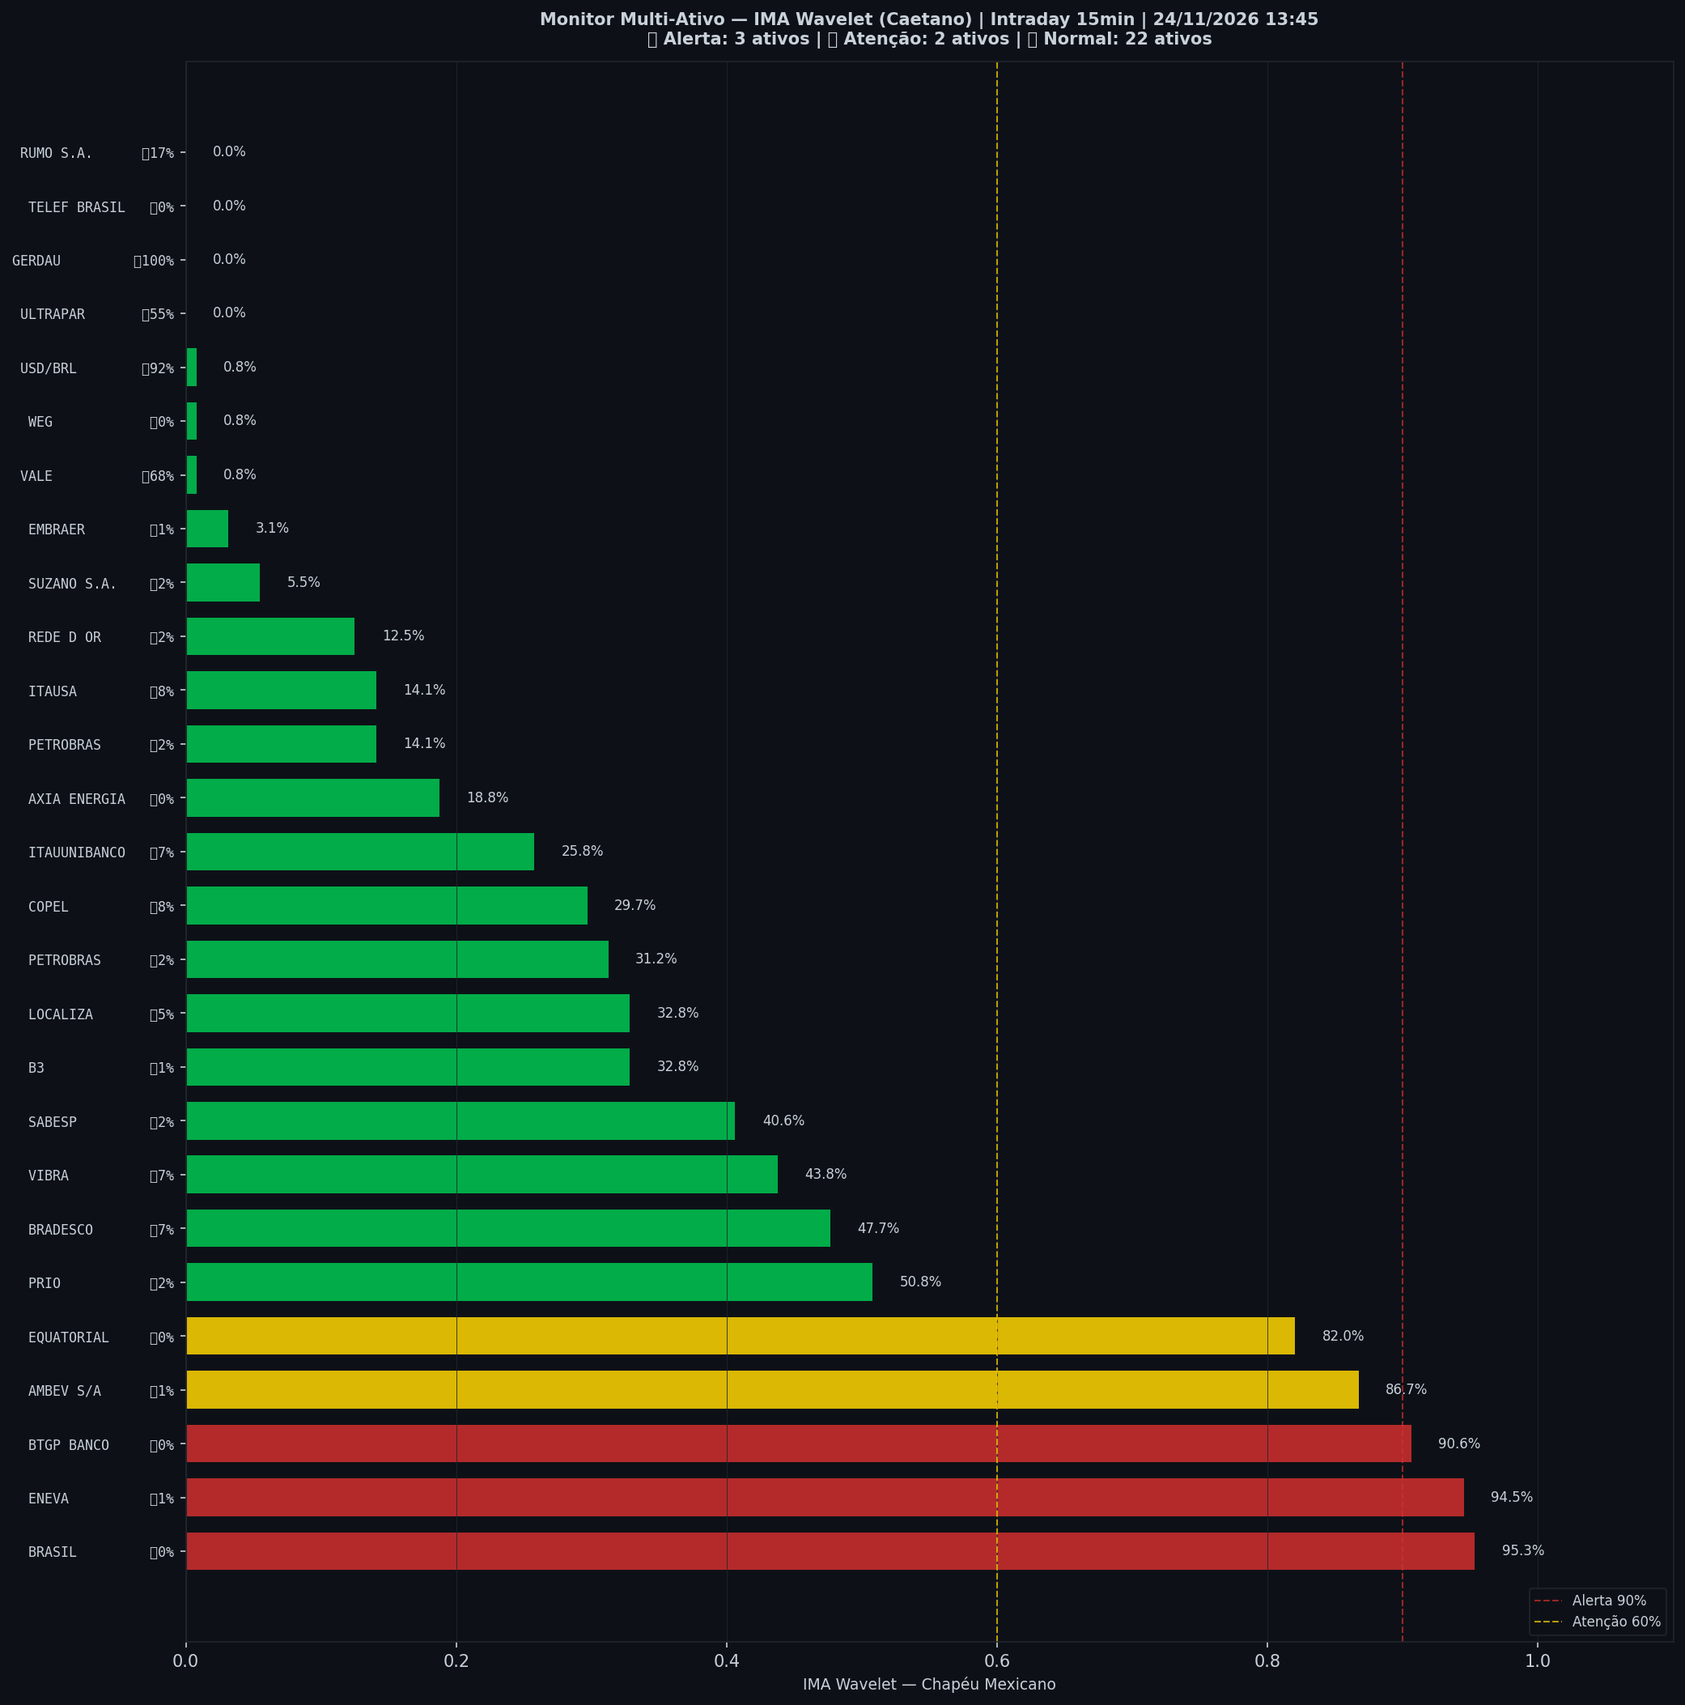
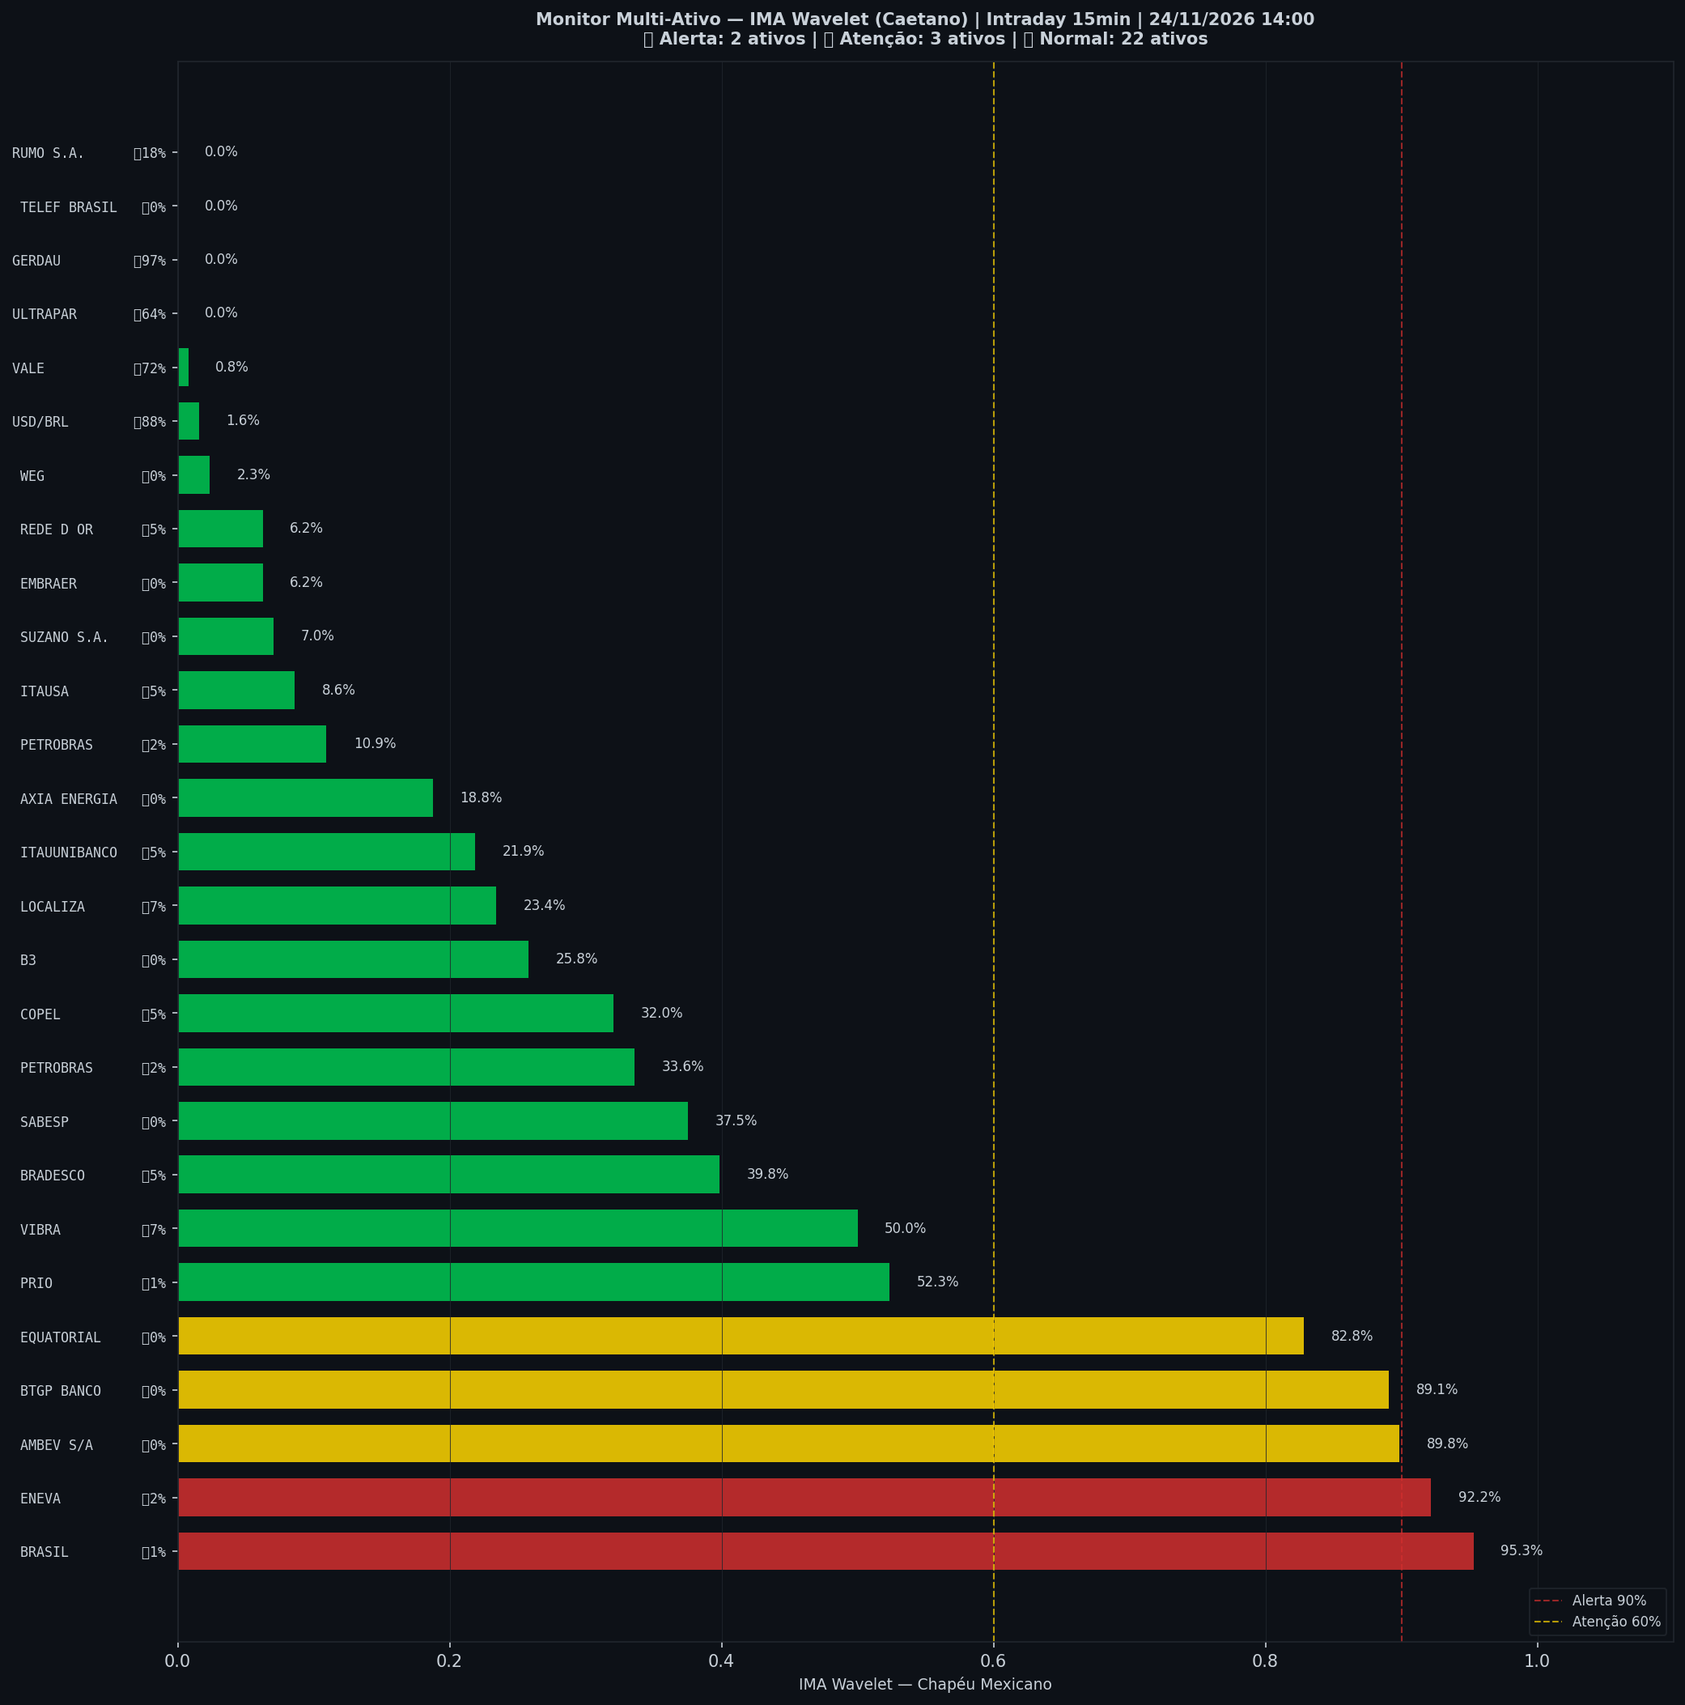
🤖 Auto: Sinal 24/11/2026 14:00

diff --git a/content/intraday/2026-11-24.md b/content/intraday/2026-11-24.md
@@ -1,13 +1,13 @@
 ---
-title: "🟢 Intraday 24/11/2026 13:30 BRT — VERDE"
+title: "🟢 Intraday 24/11/2026 13:45 BRT — VERDE"
 date: 2026-11-24
 tags: [intraday]
 ---
 
-> [!success] Onde o mercado está agora (24/11 13:30, candles de 15 min): **🟢 Calmo**
+> [!success] Onde o mercado está agora (24/11 13:45, candles de 15 min): **🟢 Calmo**
 > `Pânico ◀───────────●─────────▶ Euforia`
 >
-> **O Ibovespa cai 0,68% agora, aos 165.251 pontos.** O preço está dentro da sua faixa normal, sem excesso para cima nem para baixo.
+> **O Ibovespa cai 0,63% agora, aos 165.324 pontos.** O preço está dentro da sua faixa normal, sem excesso para cima nem para baixo.
 > No gráfico diário: 🌱 Fundo se desfazendo.
 >
 > *Leitura educacional baseada em 26 anos de dados. Não é recomendação de investimento.*
@@ -20,8 +20,8 @@ tags: [intraday]
 > | 📍 **Sinais** | hoje: nenhum sinal | [abrir](sinais-topo-fundo/) |
 > | 🧪 **Placar ao vivo** | 1 operação(ões), 0 com lucro, soma -0,8% | [abrir](operacoes/) |
 
-> [!success] IMA Intraday · 15 min (24/11 13:30): 🟢 **VERDE** — Risco 21% · ▼ -8 p.p. vs leitura anterior
-> `████░░░░░░░░░░░░░░░░`
+> [!success] IMA Intraday · 15 min (24/11 13:45): 🟢 **VERDE** — Risco 14% · ▼ -7 p.p. vs leitura anterior
+> `███░░░░░░░░░░░░░░░░░`
 > Preço na faixa normal em torno da tendência.
 
 
@@ -32,13 +32,13 @@ tags: [intraday]
 >
 > *Leitura educacional baseada em 26 anos de dados, não recomendação. [Como usar](../metodologia/crise#3-como-usar-na-prática).*
 
-| Indicador — IMA Intraday · 15 min (24/11 13:30) | Valor |
+| Indicador — IMA Intraday · 15 min (24/11 13:45) | Valor |
 |---|---|
-| 🔴 ζ Topo — preço esticado acima da tendência | **21%** |
-| 🔵 ζ Fundo — preço esticado abaixo da tendência | 7% |
+| 🔴 ζ Topo — preço esticado acima da tendência | **14%** |
+| 🔵 ζ Fundo — preço esticado abaixo da tendência | 5% |
 | 🫧 LPPL bolha — alta super-exponencial (risco de crash) | 0% |
 | 🫧 LPPL antibolha — queda super-exponencial (risco de repique) | 0% |
-| 📊 Ibovespa | 165.251 pts |
+| 📊 Ibovespa | 165.324 pts |
 
 ![Gráfico do sinal](../graficos/sinal_intraday.png)
 
@@ -46,6 +46,7 @@ tags: [intraday]
 
 | Data | Zona | Evento | Risco | ζ Topo | ζ Fundo | LPPL |
 |---|---|---|---|---|---|---|
+| 2026-11-24 13:45 | 🟢 VERDE |  | **14%** | 14% | 5% | 0% |
 | 2026-11-24 13:30 | 🟢 VERDE |  | **21%** | 21% | 7% | 0% |
 | 2026-11-24 13:15 | 🟢 VERDE |  | **29%** | 29% | 6% | 0% |
 | 2026-11-24 13:00 | 🟢 VERDE |  | **41%** | 41% | 6% | 0% |
@@ -75,52 +76,51 @@ tags: [intraday]
 | 2026-11-23 15:15 | 🟢 VERDE |  | **1%** | 1% | 12% | 0% |
 | 2026-11-23 15:00 | 🟢 VERDE |  | **0%** | 0% | 22% | 0% |
 | 2026-11-23 14:45 | 🟢 VERDE |  | **1%** | 1% | 27% | 0% |
-| 2026-11-23 14:30 | 🟢 VERDE |  | **1%** | 1% | 27% | 0% |
 
 <small>Destaques: 🟡 ≥ 60% · 🔴 ≥ 90% (Risco e ζ Topo) · 🔵 ≥ 60% · 🔪 ≥ 90% (ζ Fundo) · 🫧 ≥ 30% · 🫧🔴 ≥ 50% (LPPL)</small>
 
 ## Monitor Multi-Ativo
 
-**19% dos ativos em tensão** (4🔴 2🟡) · **3 com ζ Fundo alto** — quanto mais ativos disparam juntos, mais confiável o sinal.
+**19% dos ativos em tensão** (4🔴 1🟡) · **4 com ζ Fundo alto** — quanto mais ativos disparam juntos, mais confiável o sinal.
 
 > [!danger] Em destaque no multi-ativo
-> 🔪 **GERDAU** ζ Fundo 100% · 🔴 **BRASIL** ζ Topo 95% · 🔴 **ENEVA** ζ Topo 95% · 🔪 **USD/BRL** ζ Fundo 92% · 🔴 **BTGP BANCO** ζ Topo 91% · 🟡 **AMBEV S/A** ζ Topo 87% · 🟡 **EQUATORIAL** ζ Topo 82% · 🔵 **VALE** ζ Fundo 68%
+> 🔪 **GERDAU** ζ Fundo 97% · 🔴 **BRASIL** ζ Topo 95% · 🔴 **ENEVA** ζ Topo 92% · 🟡 **AMBEV S/A** ζ Topo 90% · 🟡 **BTGP BANCO** ζ Topo 89% · 🔵 **USD/BRL** ζ Fundo 88% · 🟡 **EQUATORIAL** ζ Topo 83% · 🔵 **VALE** ζ Fundo 72% · 🔵 **ULTRAPAR** ζ Fundo 64%
 
 | Zona | Ativo | Setor | ζ Topo | ζ Fundo |
 |---|---|---|---|---|
-| 🟢 | **GERDAU** | Siderurgia | 0.0% | 🔪 **100.0%** |
-| 🔴 | **BRASIL** | Financeiro | 🔴 **95.3%** | 0.0% |
-| 🔴 | **ENEVA** | Energia | 🔴 **94.5%** | 0.8% |
-| 🟢 | **USD/BRL** | Câmbio | 0.8% | 🔪 **92.2%** |
-| 🔴 | **BTGP BANCO** | Financeiro | 🔴 **90.6%** | 0.0% |
-| 🔴 | **AMBEV S/A** | Consumo | 🟡 **86.7%** | 0.8% |
-| 🟡 | **EQUATORIAL** | Energia | 🟡 **82.0%** | 0.0% |
-| 🟢 | **VALE** | Mineração | 0.8% | 🔵 **68.0%** |
-| 🟢 | **ULTRAPAR** | Outros | 0.0% | 54.7% |
-| 🟢 | **PRIO** | Petróleo | 50.8% | 1.6% |
-| 🟡 | **BRADESCO** | Financeiro | 47.7% | 7.0% |
-| 🟢 | **VIBRA** | Energia | 43.8% | 7.0% |
-| 🟢 | **SABESP** | Saneamento | 40.6% | 1.6% |
-| 🟢 | **B3** | Financeiro | 32.8% | 0.8% |
-| 🟢 | **LOCALIZA** | Aluguel | 32.8% | 5.5% |
-| 🟢 | **PETROBRAS** | Petróleo | 31.2% | 1.6% |
-| 🟢 | **COPEL** | Energia | 29.7% | 7.8% |
-| 🟢 | **ITAUUNIBANCO** | Financeiro | 25.8% | 7.0% |
+| 🟢 | **GERDAU** | Siderurgia | 0.0% | 🔪 **96.9%** |
+| 🔴 | **BRASIL** | Financeiro | 🔴 **95.3%** | 0.8% |
+| 🔴 | **ENEVA** | Energia | 🔴 **92.2%** | 1.6% |
+| 🔴 | **AMBEV S/A** | Consumo | 🟡 **89.8%** | 0.0% |
+| 🔴 | **BTGP BANCO** | Financeiro | 🟡 **89.1%** | 0.0% |
+| 🟢 | **USD/BRL** | Câmbio | 1.6% | 🔵 **87.5%** |
+| 🟡 | **EQUATORIAL** | Energia | 🟡 **82.8%** | 0.0% |
+| 🟢 | **VALE** | Mineração | 0.8% | 🔵 **71.9%** |
+| 🟢 | **ULTRAPAR** | Outros | 0.0% | 🔵 **64.1%** |
+| 🟢 | **PRIO** | Petróleo | 52.3% | 0.8% |
+| 🟢 | **VIBRA** | Energia | 50.0% | 7.0% |
+| 🟢 | **BRADESCO** | Financeiro | 39.8% | 5.5% |
+| 🟢 | **SABESP** | Saneamento | 37.5% | 0.0% |
+| 🟢 | **PETROBRAS** | Petróleo | 33.6% | 1.6% |
+| 🟢 | **COPEL** | Energia | 32.0% | 5.5% |
+| 🟢 | **B3** | Financeiro | 25.8% | 0.0% |
+| 🟢 | **LOCALIZA** | Aluguel | 23.4% | 7.0% |
+| 🟢 | **ITAUUNIBANCO** | Financeiro | 21.9% | 4.7% |
 | 🟢 | **AXIA ENERGIA** | Energia | 18.8% | 0.0% |
-| 🟢 | **RUMO S.A.** | Outros | 0.0% | 17.2% |
-| 🟢 | **PETROBRAS** | Petróleo | 14.1% | 2.3% |
-| 🟢 | **ITAUSA** | Financeiro | 14.1% | 7.8% |
-| 🟢 | **REDE D OR** | Saúde | 12.5% | 2.3% |
-| 🟢 | **SUZANO S.A.** | Papel/Celulose | 5.5% | 1.6% |
-| 🟢 | **EMBRAER** | Outros | 3.1% | 0.8% |
-| 🟢 | **WEG** | Industrial | 0.8% | 0.0% |
+| 🟢 | **RUMO S.A.** | Outros | 0.0% | 18.0% |
+| 🟢 | **PETROBRAS** | Petróleo | 10.9% | 1.6% |
+| 🟢 | **ITAUSA** | Financeiro | 8.6% | 5.5% |
+| 🟢 | **SUZANO S.A.** | Papel/Celulose | 7.0% | 0.0% |
+| 🟢 | **EMBRAER** | Outros | 6.2% | 0.0% |
+| 🟢 | **REDE D OR** | Saúde | 6.2% | 4.7% |
+| 🟢 | **WEG** | Industrial | 2.3% | 0.0% |
 | 🟢 | **TELEF BRASIL** | Outros | 0.0% | 0.0% |
 
 <small>Destaques: 🟡 ≥ 60% · 🔴 ≥ 90% (Risco e ζ Topo) · 🔵 ≥ 60% · 🔪 ≥ 90% (ζ Fundo) · 🫧 ≥ 30% · 🫧🔴 ≥ 50% (LPPL)</small>
 
 ![Monitor multi-ativo](../graficos/multi_intraday.png)
 
-*Página atualizada em 24/11/2026 13:45 BRT (leitura da barra de 2026-11-24 13:30 BRT).*
+*Página atualizada em 24/11/2026 14:00 BRT (leitura da barra de 2026-11-24 13:45 BRT).*
 
 > [!warning] O que este indicador não faz
 > Medido em 5 anos de Ibovespa, o ζ **não antecipa** topos nem fundos: a capacidade de separar o que sobe do que cai ficou em 0,49–0,52, e 0,50 é moeda jogada ao ar. Ele descreve o estado de agora; não é aviso do que vem. As zonas verde/amarelo/vermelho continuam na página como descrição desse estado — **não as use como sinal de entrada ou saída**.

diff --git a/content/index.md b/content/index.md
@@ -7,12 +7,12 @@ tags: [home]
 
 **As ondas do mercado, explicadas.** Leitura do Ibovespa com estatística de 26 anos, baseada no trabalho de pesquisadores e traders reconhecidos e adaptada por Jarbas Daniel da Costa.
 
-*Última atualização: 24/11/2026 13:45 BRT · Intraday 15min*
+*Última atualização: 24/11/2026 14:00 BRT · Intraday 15min*
 
-> [!success] Onde o mercado está agora (24/11 13:30, candles de 15 min): **🟢 Calmo**
+> [!success] Onde o mercado está agora (24/11 13:45, candles de 15 min): **🟢 Calmo**
 > `Pânico ◀───────────●─────────▶ Euforia`
 >
-> **O Ibovespa cai 0,68% agora, aos 165.251 pontos.** O preço está dentro da sua faixa normal, sem excesso para cima nem para baixo.
+> **O Ibovespa cai 0,63% agora, aos 165.324 pontos.** O preço está dentro da sua faixa normal, sem excesso para cima nem para baixo.
 > No gráfico diário: 🌱 Fundo se desfazendo.
 >
 > *Leitura educacional baseada em 26 anos de dados. Não é recomendação de investimento.*
@@ -21,7 +21,7 @@ tags: [home]
 
 | Módulo | Agora | |
 |---|---|---|
-| 🌊 **Sinal IMA** | 🟢 VERDE · 🟢 calmo · ζ Topo 21% | [relatório](intraday/2026-11-24) |
+| 🌊 **Sinal IMA** | 🟢 VERDE · 🟢 calmo · ζ Topo 14% | [relatório](intraday/2026-11-24) |
 | 📈 **Tendência MME9** | Diário — fora<br>Semanal — fora | [abrir](operacoes/tendencia) |
 | 🎯 **Entradas do método** | — nenhuma regra com setup ativo | [abrir](operacoes/entradas) |
 | 📍 **Sinais** | hoje: nenhum sinal | [abrir](sinais-topo-fundo/) |
@@ -45,26 +45,26 @@ tags: [home]
 > *Leitura educacional baseada em 26 anos de dados, não recomendação. [Como usar](metodologia/crise#3-como-usar-na-prática).*
 
 > [!info]- 🌊 Detalhes do Sinal IMA (indicadores e últimos 7 pregões)
-> > [!success] IMA Intraday · 15 min (24/11 13:30): 🟢 **VERDE** — Risco 21% · ▼ -8 p.p. vs leitura anterior
-> > `████░░░░░░░░░░░░░░░░`
+> > [!success] IMA Intraday · 15 min (24/11 13:45): 🟢 **VERDE** — Risco 14% · ▼ -7 p.p. vs leitura anterior
+> > `███░░░░░░░░░░░░░░░░░`
 > > Preço na faixa normal em torno da tendência.
 >
 >
-> | Indicador — IMA Intraday · 15 min (24/11 13:30) | Valor |
+> | Indicador — IMA Intraday · 15 min (24/11 13:45) | Valor |
 > |---|---|
-> | 🔴 ζ Topo — preço esticado acima da tendência | **21%** |
-> | 🔵 ζ Fundo — preço esticado abaixo da tendência | 7% |
+> | 🔴 ζ Topo — preço esticado acima da tendência | **14%** |
+> | 🔵 ζ Fundo — preço esticado abaixo da tendência | 5% |
 > | 🫧 LPPL bolha — alta super-exponencial (risco de crash) | 0% |
 > | 🫧 LPPL antibolha — queda super-exponencial (risco de repique) | 0% |
-> | 📊 Ibovespa | 165.251 pts |
+> | 📊 Ibovespa | 165.324 pts |
 >
-> **Multi-ativo:** 19% em tensão (4🔴 2🟡 de 27 ativos)
+> **Multi-ativo:** 19% em tensão (4🔴 1🟡 de 27 ativos)
 >
 > **Últimos 7 pregões**
 >
 > | Data | Zona | Risco | ζ Topo | ζ Fundo | LPPL |
 > |---|---|---|---|---|---|
-> | [24/11/2026](intraday/2026-11-24) | 🟢 VERDE | **21%** | 21% | 7% | 0% |
+> | [24/11/2026](intraday/2026-11-24) | 🟢 VERDE | **14%** | 14% | 5% | 0% |
 > | [23/11/2026](intraday/2026-11-23) | 🟢 VERDE | **3%** | 3% | 0% | 0% |
 >
 > <small>Destaques: 🟡 ≥ 60% · 🔴 ≥ 90% (Risco e ζ Topo) · 🔵 ≥ 60% · 🔪 ≥ 90% (ζ Fundo) · 🫧 ≥ 30% · 🫧🔴 ≥ 50% (LPPL)</small>

diff --git a/content/operacoes/entradas.md b/content/operacoes/entradas.md
@@ -81,7 +81,7 @@ description: "Compra depois de um sinal de fundo: Nadaraya no diário, semáforo
 > | H4 · Semáforo N2 | 05/05/26 10h a 186.583 | 07/05/26 10h a 186.583 | **+0,0%** | stop no preço de entrada |
 > | Semanal · Semáforo N2 | semana de 17/02/25 a 127.128 | semana de 13/04/26 a 195.734 | **+54,0%** | limite de 60 candles |
 >
-> <small>Atualizado 23/11 19:00. Nota: ✅ passou no teste fora da amostra (walk-forward 2008–2026) · 🧪 em teste (H4, com aviso no Telegram) ou em observação (ζ, sem aviso) · 🧪 na tabela = operação do teste ao vivo.</small>
+> <small>Atualizado 23/11 19:00 · checado no pregão às 14:00. Nota: ✅ passou no teste fora da amostra (walk-forward 2008–2026) · 🧪 em teste (H4, com aviso no Telegram) ou em observação (ζ, sem aviso) · 🧪 na tabela = operação do teste ao vivo.</small>
 >
 > *Regras: depois de um sinal de fundo, o Diário entra quando o Nadaraya vira para cima; o Semanal e o H4 entram quando um fundo do semáforo fica fixo. Stop e saída de cada regra na [metodologia](metodologia/regras-de-operacao#entradas-do-método). Nenhuma regra de venda passou no teste. Os números do histórico têm viés de escolha (overfitting); o placar ao vivo é o que vale. Leitura educacional do método, não recomendação.*
 

diff --git a/content/integridade/index.md b/content/integridade/index.md
@@ -6,7 +6,7 @@ description: "O que foi conferido, contra qual fonte e quando — medido na hora
 tags: [integridade]
 ---
 
-*Pregão conferido: **19/11/2026**, com 55 tabelas no acervo · página gerada em 24/11/2026 13:45*
+*Pregão conferido: **19/11/2026**, com 55 tabelas no acervo · página gerada em 24/11/2026 14:00*
 
 O pregão conferido é o último **fechado e arquivado inteiro**, não o de hoje: enquanto o dia corre, só algumas tabelas estão gravadas, e conferir um dia pela metade produziria alarme falso.
 
@@ -23,7 +23,7 @@ Esta página não declara que o site está correto. Ela **mede** e escreve o res
 | Tabelas com conteúdo fora da curva | nenhuma |
 | Páginas publicadas | 367 |
 | Conferências cruzadas das páginas | 71 certas, nenhuma divergência |
-| Página escrita mais recentemente | 24/11 13:45 |
+| Página escrita mais recentemente | 24/11 14:00 |
 | Páginas sem data no cabeçalho | 9 — cegas para a conferência de dado |
 
 ## 1 · Acervo do boletim diário

diff --git a/content/operacoes/ranking.md b/content/operacoes/ranking.md
@@ -56,7 +56,7 @@ description: "As regras de compra do site ordenadas pelo resultado, com treino, 
 > 
 > Operação **com 🧪** começou depois de **23/10/2026**, com as regras congeladas. É o único resultado sem nenhum ajuste ao passado, e é por ele que cada regra está sendo julgada.
 
-*Atualizado 24/11/2026 13:45 · histórico simulado com as regras congeladas em 23/10/2026 + placar ao vivo.*
+*Atualizado 24/11/2026 14:00 · histórico simulado com as regras congeladas em 23/10/2026 + placar ao vivo.*
 
 As regras de compra do site, **da que mais rendeu para a que menos rendeu**. O resultado é por operação, no índice à vista, sem custos e sem juros compostos (a soma é só a soma das operações). **Treino** = entradas de 2001 a 2013 e **teste** = 2014 em diante: uma regra só é confiável se ganhou nos dois. O único resultado sem nenhum ajuste ao histórico é o **placar ao vivo**.
 

diff --git a/content/historico.md b/content/historico.md
@@ -5,7 +5,7 @@ tags: [historico]
 
 # 📜 Histórico de leituras (v5)
 
-**2.563 leituras** desde 2026-07-03. Na página ficam os últimos 3 dias leitura por leitura e o resumo de cada dia anterior; o registro inteiro está no arquivo para baixar.
+**2.564 leituras** desde 2026-07-03. Na página ficam os últimos 3 dias leitura por leitura e o resumo de cada dia anterior; o registro inteiro está no arquivo para baixar.
 
 [**Baixar o histórico completo**](historico-completo.csv) (112 KB · abre no Excel e no LibreOffice)
 
@@ -16,6 +16,7 @@ tags: [historico]
 
 | Data | Modo | Zona | Risco | IMA | LPPL |
 |---|---|---|---|---|---|
+| 2026-11-24 13:45 | intraday | 🟢 VERDE | 14% | 14% | 0% |
 | 2026-11-24 13:30 | intraday | 🟢 VERDE | 21% | 21% | 0% |
 | 2026-11-24 13:15 | intraday | 🟢 VERDE | 29% | 29% | 0% |
 | 2026-11-24 13:00 | intraday | 🟢 VERDE | 41% | 41% | 0% |

diff --git a/content/linha-do-tempo/index.md b/content/linha-do-tempo/index.md
@@ -5,7 +5,7 @@ description: "Todo sinal, ordem, stop e aviso do Pêndulo de Mercado, do mais re
 tags: [eventos]
 ---
 
-*Atualizada 24/11/2026 13:45 BRT · a cada 15 min no pregão e às 19h.*
+*Atualizada 24/11/2026 14:00 BRT · a cada 15 min no pregão e às 19h.*
 
 Tudo o que o sistema fez ou detectou, **do mais recente para o mais antigo**: sinais de topo e fundo, ordens de compra e de venda armadas, compras, vendas, stops, avisos de 🚨 preço perto do nível e mudanças do Sinal IMA. Os **últimos 7 dias** ficam abertos; o resto, por **ano → mês → dia**.
 

diff --git a/content/avisos/index.md b/content/avisos/index.md
@@ -2,7 +2,7 @@
 title: "⚠ Avisos: o que saber antes de usar os números"
 ---
 
-*Gerado em 24/11/2026 13:45*
+*Gerado em 24/11/2026 14:00*
 
 Este site publica muitos números, e cada um tem uma limitação que importa na hora de
 decidir. As limitações estão escritas nas próprias páginas, mas quem chega direto numa
